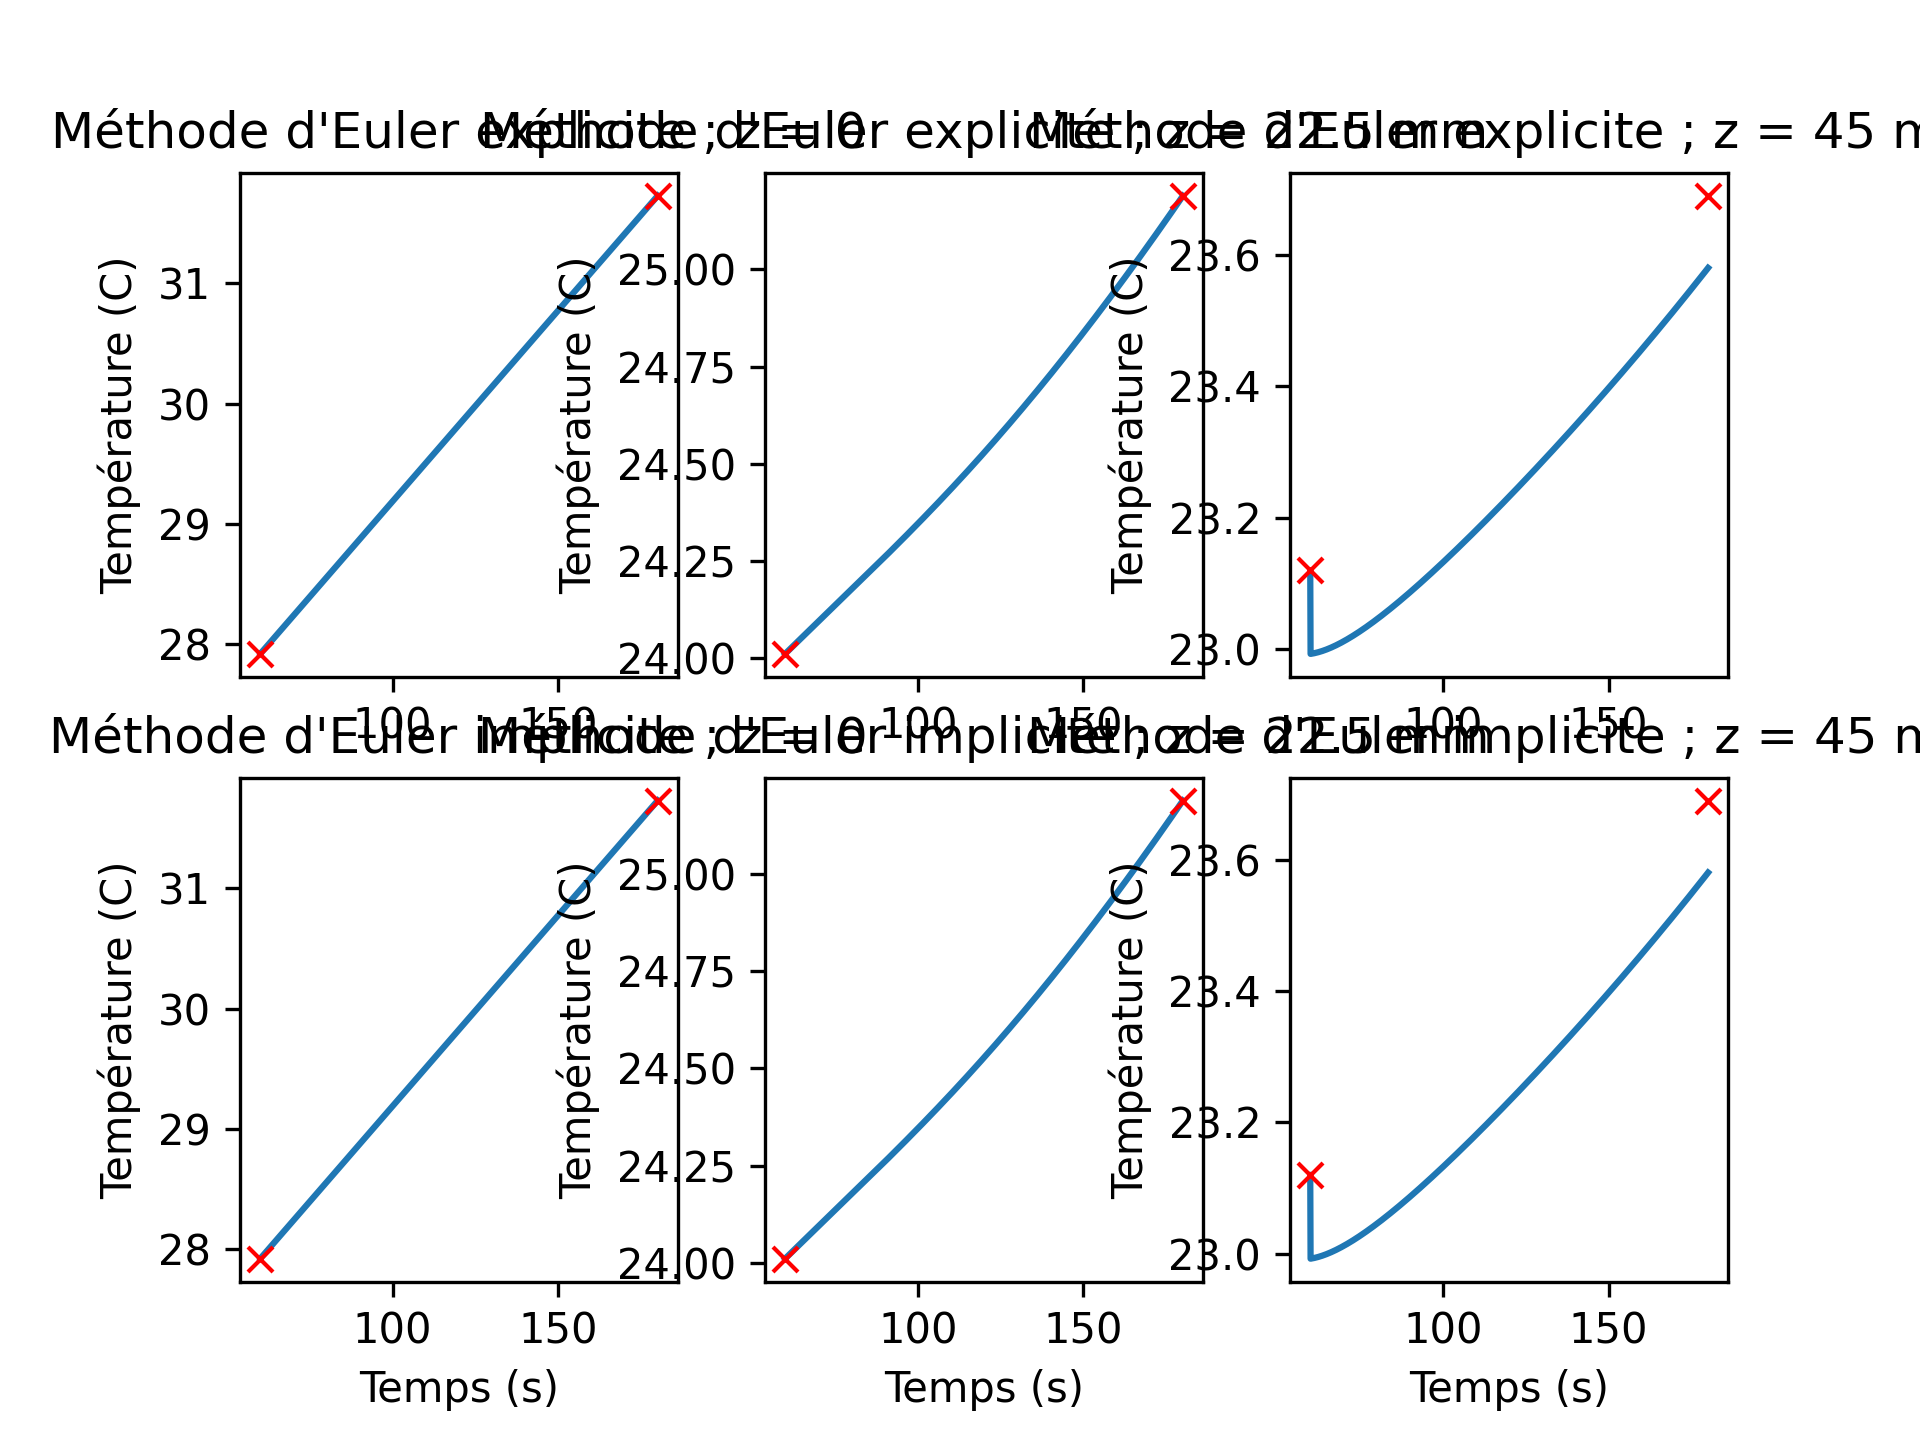
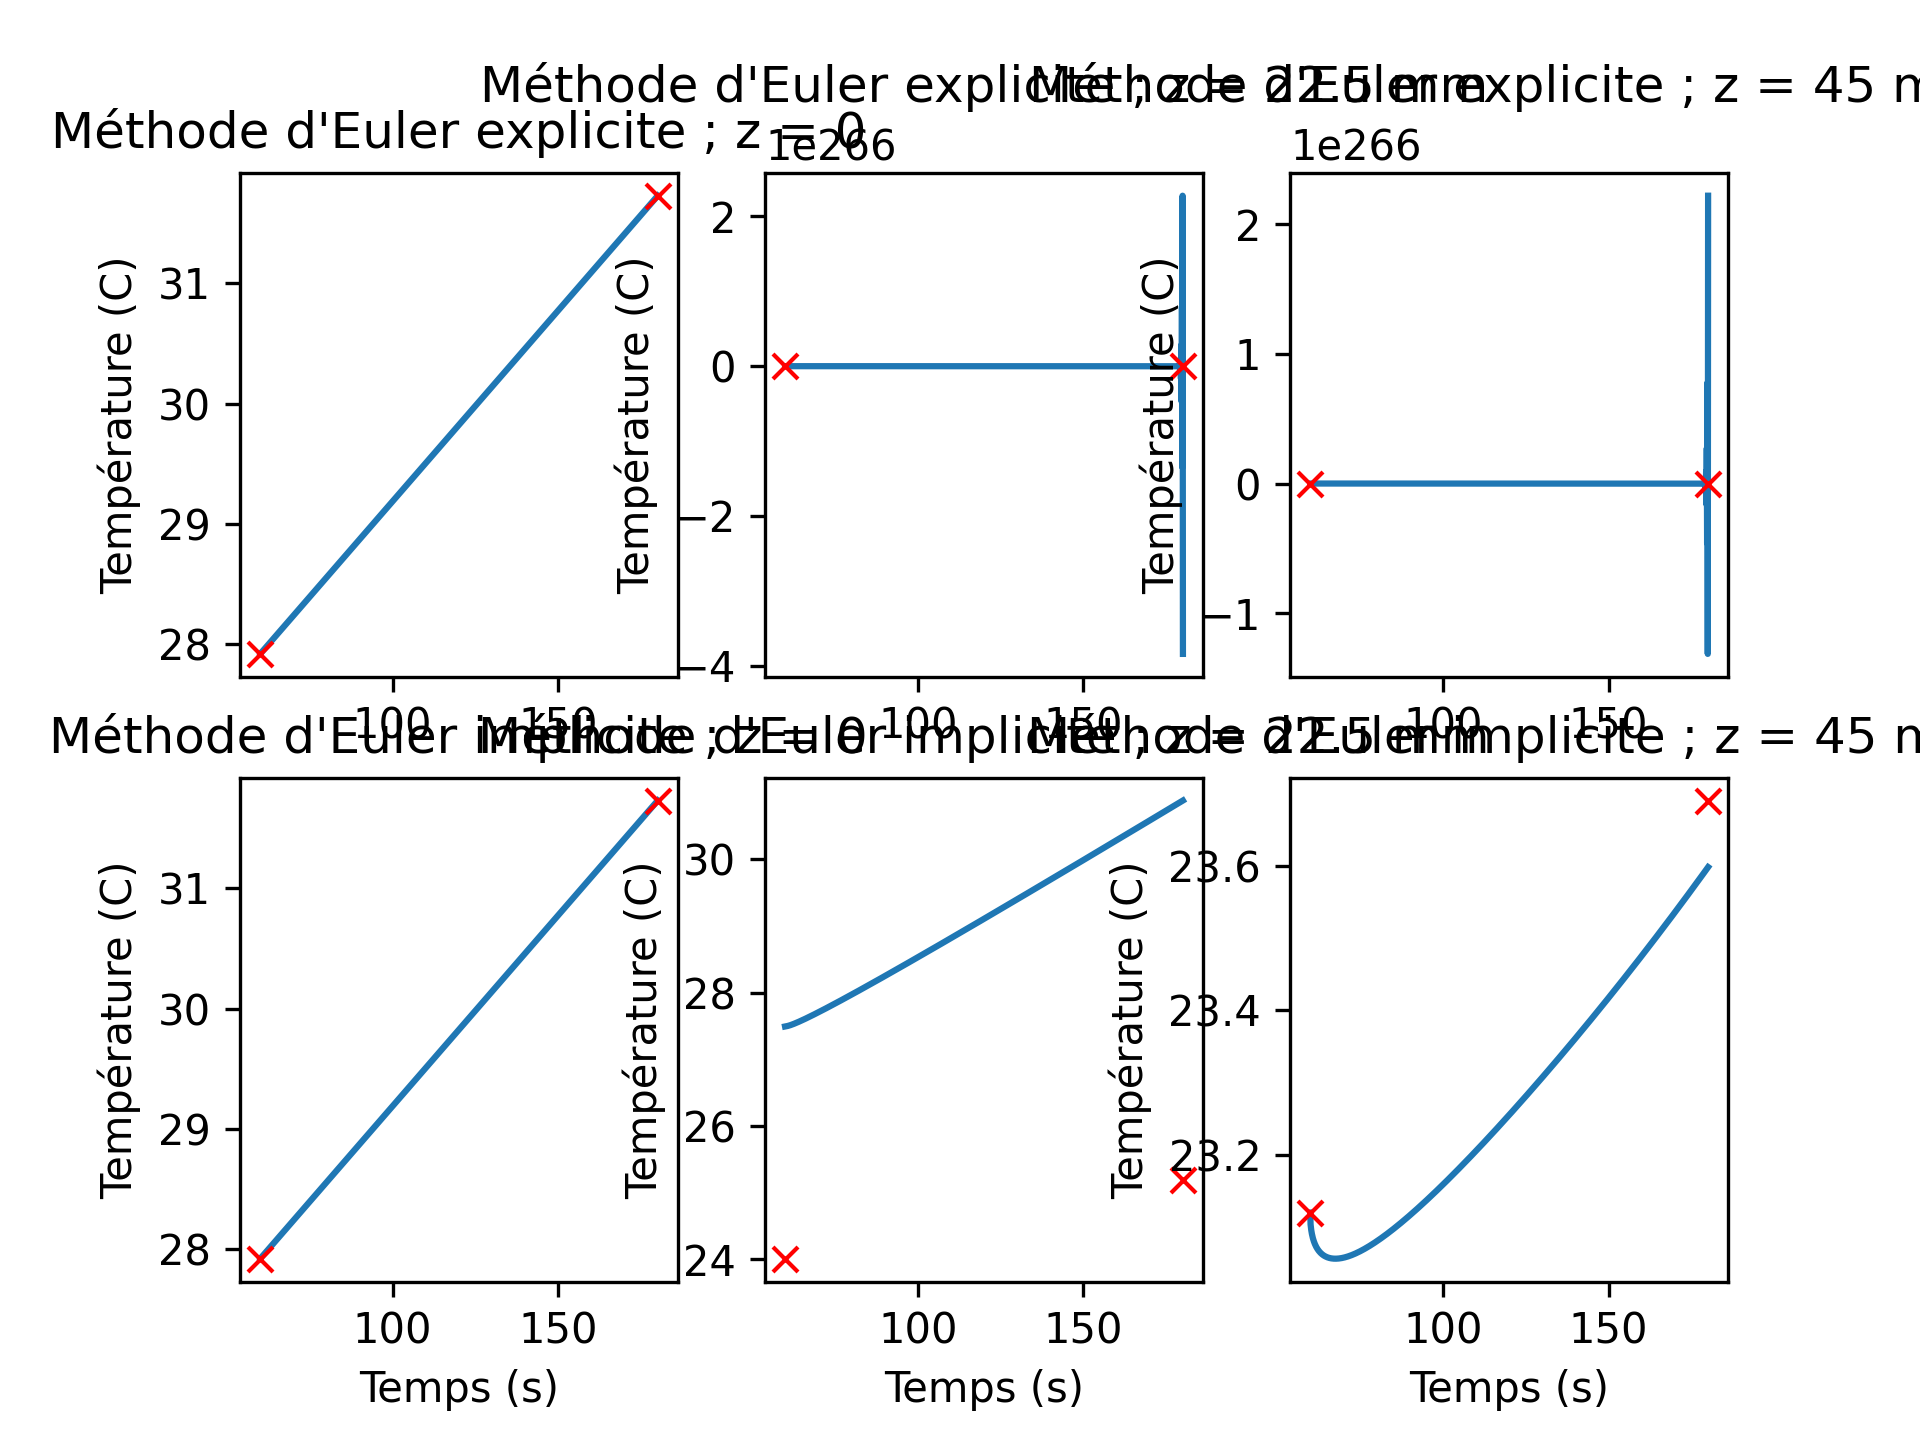
f

diff --git a/Resolution.py b/Resolution.py
@@ -17,7 +17,7 @@ from CI import *
 class parametres():
     Cp = 1025          # Capacité thermique massique [J/(kg*K)]
     k = 1.525            # Conductivité thermique 
-    n = 9          # Nombre de noeuds
+    n = 100          # Nombre de noeuds
     rho = 1.07*10**3   # Masse volumique [kg/m^3]
     h = 10           # Coefficient de convection [W/m^2*K]
     H = 0.045           # Hauteur de la pâte [m]
@@ -52,7 +52,7 @@ ax_1[0].set_title('Profil de température selon les méthodes d\'Euler \n explic
 #x_1[0].set_xlabel('Hauteur (m)')
 ax_1[0].set_ylabel('Température (C)')
 ax_1[0].plot(x[0],31.73,'rx')
-ax_1[0].plot(x[4],25.19,'rx')
+ax_1[0].plot(x[50],25.19,'rx')
 ax_1[0].plot(x[-1],23.69,'rx')
 
 ax_1[1].plot(x,T_f_imp[-1,:])
@@ -60,7 +60,7 @@ ax_1[1].plot(x,T_f_imp[-1,:])
 ax_1[1].set_xlabel('Hauteur (m)')
 ax_1[1].set_ylabel('Température (C)')
 ax_1[1].plot(x[0],31.73,'rx')
-ax_1[1].plot(x[4],25.19,'rx')
+ax_1[1].plot(x[50],25.19,'rx')
 ax_1[1].plot(x[-1],23.69,'rx')
 
 plt.savefig('profil_température.png', dpi=300)
